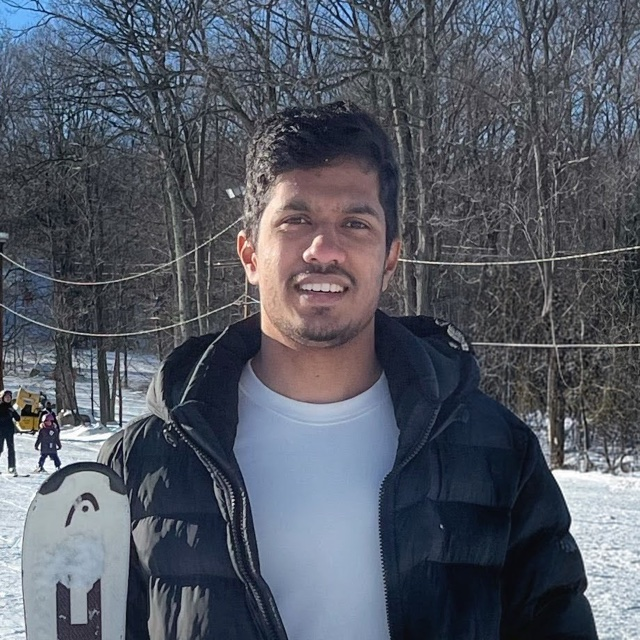
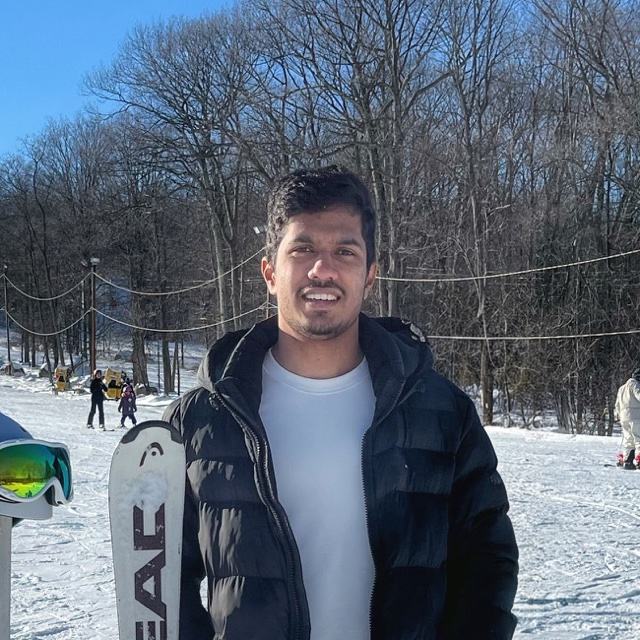
Trim work project, widen profile photo, rebalance hobby galleries
- Remove the Inscope project card (covered under Experience)
- Recrop the profile photo with more background
- Move scenic shots from Hiking to Photography (8 and 12 photos)

diff --git a/data/hobbies.js b/data/hobbies.js
@@ -9,23 +9,23 @@ window.HOBBY_PHOTOS = {
     { src: "images/travel/yosemite-1.jpg", thumb: "images/travel/thumbs/yosemite-1.jpg", caption: "Yosemite" },
     { src: "images/travel/north-cascades-2.jpg", thumb: "images/travel/thumbs/north-cascades-2.jpg", caption: "North Cascades" },
     { src: "images/travel/bryce-canyon-1.jpg", thumb: "images/travel/thumbs/bryce-canyon-1.jpg", caption: "Bryce Canyon" },
-    { src: "images/photography/photo-05.jpg", thumb: "images/photography/thumbs/photo-05.jpg", caption: "Catskills, New York" },
     { src: "images/travel/glacier-national-park-4.jpg", thumb: "images/travel/thumbs/glacier-national-park-4.jpg", caption: "Glacier National Park" },
     { src: "images/travel/multnomah-falls-1.jpg", thumb: "images/travel/thumbs/multnomah-falls-1.jpg", caption: "Multnomah Falls" },
-    { src: "images/photography/photo-03.jpg", thumb: "images/photography/thumbs/photo-03.jpg", caption: "Grand Canyon" },
     { src: "images/travel/yosemite-2.jpg", thumb: "images/travel/thumbs/yosemite-2.jpg", caption: "Yosemite" },
-    { src: "images/photography/photo-08.jpg", thumb: "images/photography/thumbs/photo-08.jpg" },
-    { src: "images/travel/yosemite-5.jpg", thumb: "images/travel/thumbs/yosemite-5.jpg", caption: "Yosemite Valley" },
-    { src: "images/photography/photo-14.jpg", thumb: "images/photography/thumbs/photo-14.jpg" }
+    { src: "images/photography/photo-08.jpg", thumb: "images/photography/thumbs/photo-08.jpg" }
   ],
   photography: [
     { src: "images/photography/photo-01.jpg", thumb: "images/photography/thumbs/photo-01.jpg", caption: "Zabriskie Point, Death Valley" },
+    { src: "images/photography/photo-05.jpg", thumb: "images/photography/thumbs/photo-05.jpg", caption: "Catskills, New York" },
     { src: "images/photography/photo-02.jpg", thumb: "images/photography/thumbs/photo-02.jpg", caption: "Salt Lake City, Utah" },
     { src: "images/photography/photo-04.jpg", thumb: "images/photography/thumbs/photo-04.jpg", caption: "Manhattan from Brooklyn" },
+    { src: "images/photography/photo-03.jpg", thumb: "images/photography/thumbs/photo-03.jpg", caption: "Grand Canyon" },
     { src: "images/photography/photo-06.jpg", thumb: "images/photography/thumbs/photo-06.jpg", caption: "Yellowstone Lake" },
     { src: "images/photography/photo-07.jpg", thumb: "images/photography/thumbs/photo-07.jpg" },
+    { src: "images/photography/photo-14.jpg", thumb: "images/photography/thumbs/photo-14.jpg" },
     { src: "images/photography/photo-10.jpg", thumb: "images/photography/thumbs/photo-10.jpg" },
     { src: "images/photography/photo-11.jpg", thumb: "images/photography/thumbs/photo-11.jpg" },
+    { src: "images/travel/yosemite-5.jpg", thumb: "images/travel/thumbs/yosemite-5.jpg", caption: "Yosemite Valley" },
     { src: "images/photography/photo-13.jpg", thumb: "images/photography/thumbs/photo-13.jpg" }
   ],
   cooking: []

diff --git a/data/projects.js b/data/projects.js
@@ -5,21 +5,6 @@
 */
 window.PROJECTS = [
   {
-    id: "agentic-finance",
-    title: "Agentic AI for financial data",
-    tagline: "LLM agents that reason, use tools and check their work",
-    where: "Inscope · Founding AI Engineer · 2025–now",
-    image: "images/projects/agentic.svg",
-    summary: "Designing and deploying high-precision agentic AI systems that process financial data, where every answer has to be right.",
-    points: [
-      "Multi-step reasoning, tool use and workflow orchestration, built around evaluations that measure reliability.",
-      "Built and own the 0→1 AI infrastructure: Node.js and FastAPI backends, model integration and production APIs for scalable, low-latency AI.",
-      "Own mission-critical AI features end to end with the founding team, including the React front end."
-    ],
-    tags: ["LLMs", "AI agents", "Evaluations", "FastAPI", "Node.js", "React"],
-    links: []
-  },
-  {
     id: "transformer-lab",
     title: "Transformer architecture lab",
     tagline: "Comparing the building blocks of modern LLMs",
